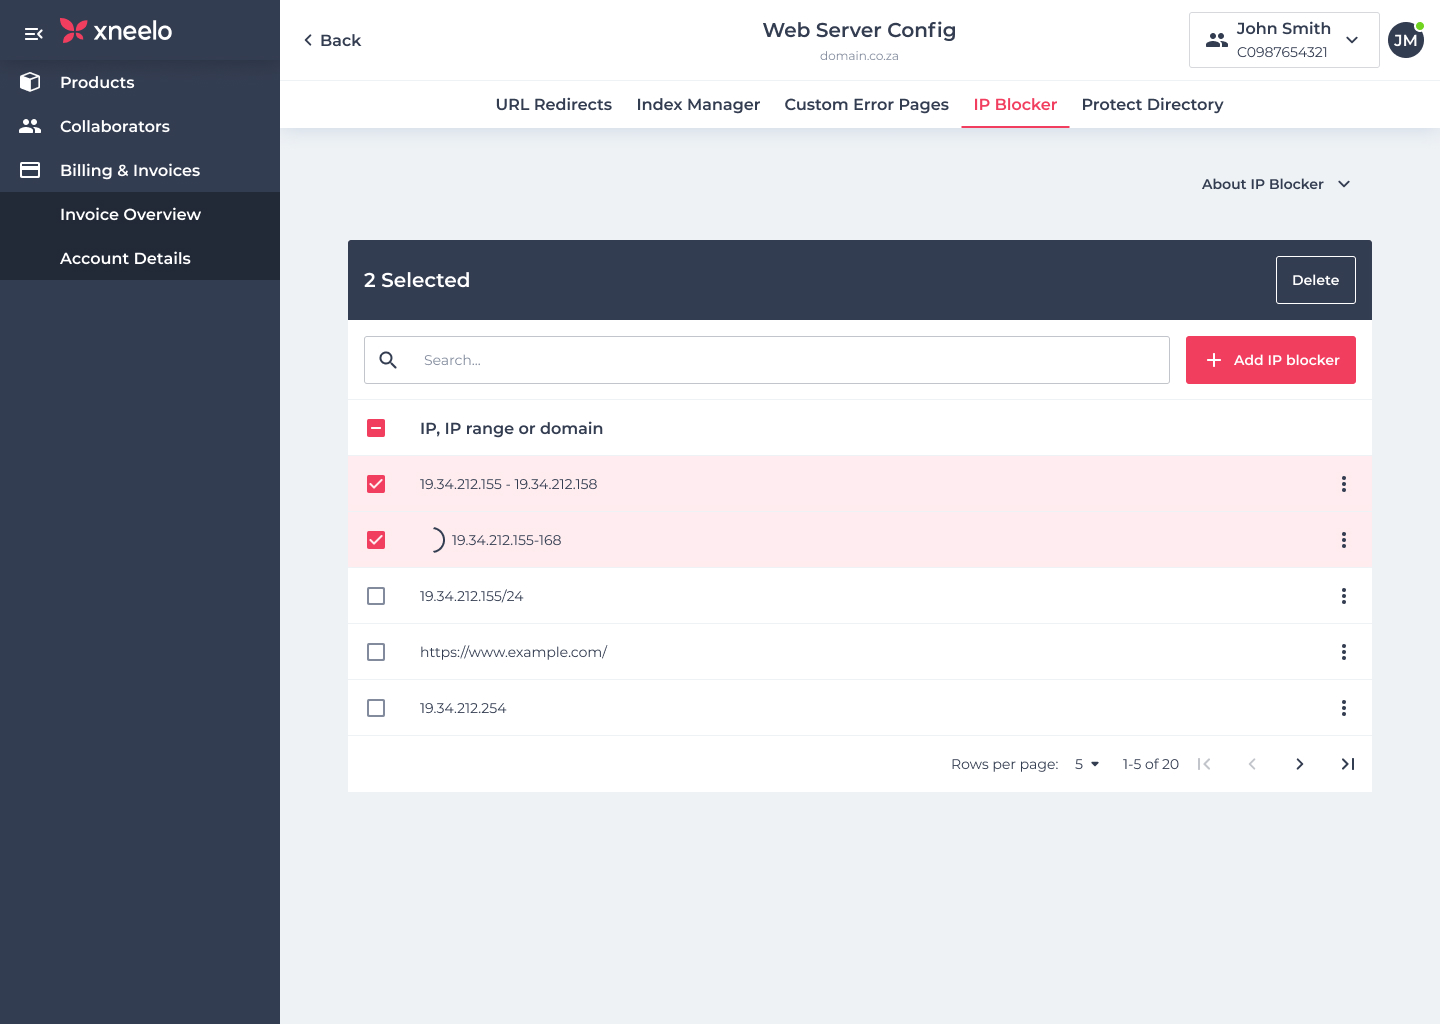
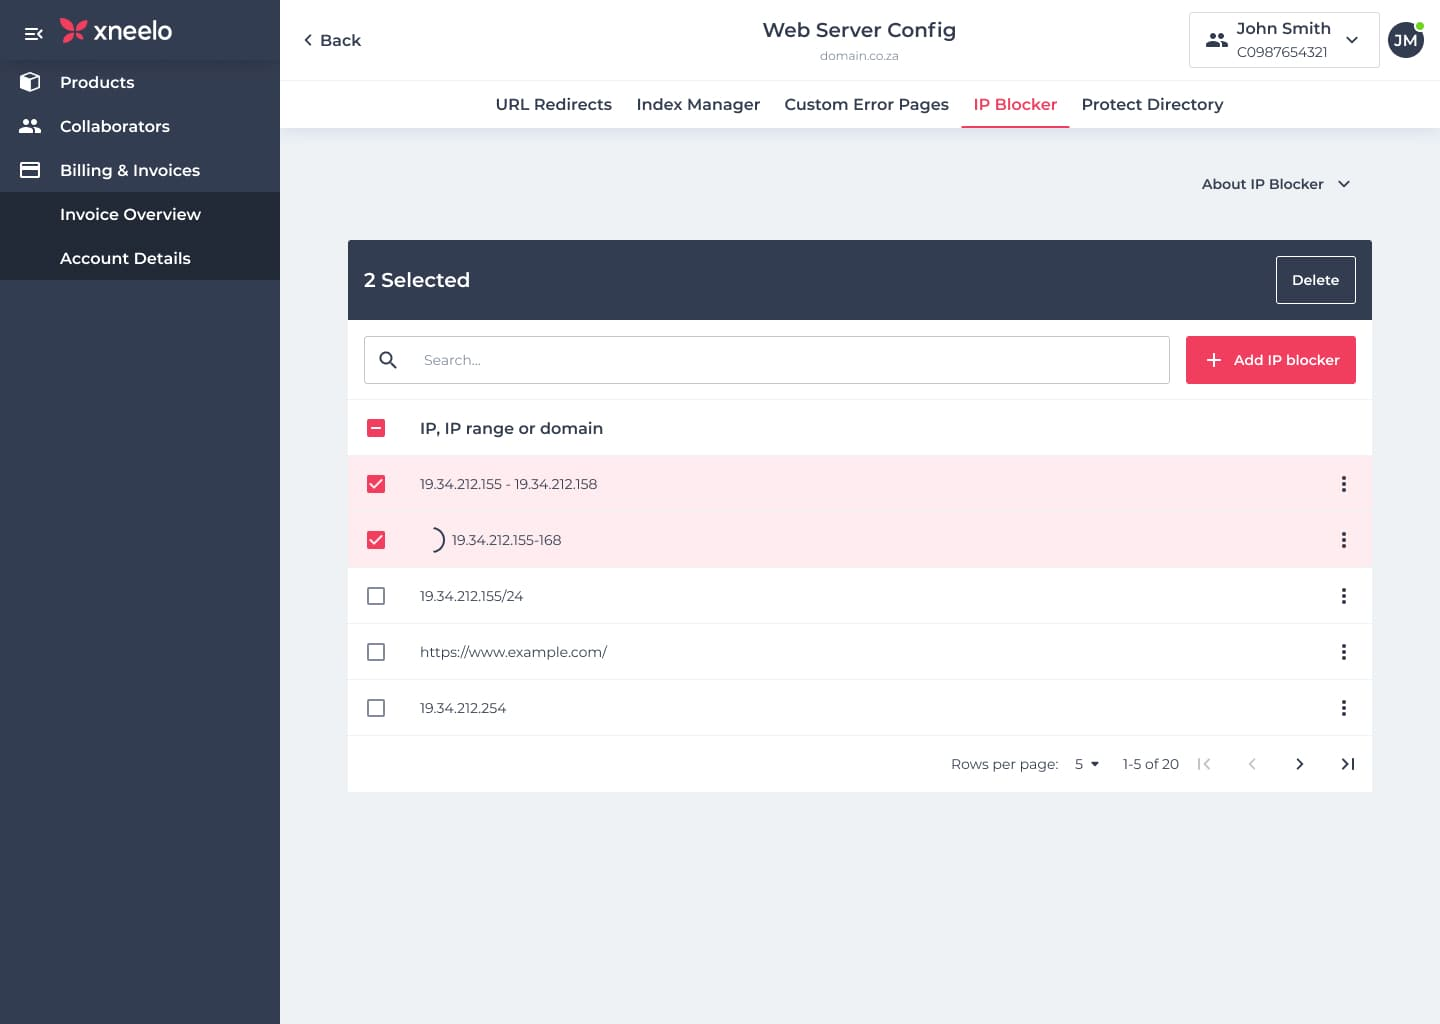
IP Blocker Imgs Optimised

Changed region(s): [[0.8438, 0.3438, 0.9375, 0.375], [0.6562, 0.0938, 0.75, 0.125], [0.0312, 0.0, 0.0625, 0.0312]]

diff --git a/webserver_config.html b/webserver_config.html
@@ -701,8 +701,8 @@
 
                 <!-- Image -->
                 <div class="bgfill">
-                    <a href="/images/webserverconfig/ip-blocker/kh.png" target="_blank" class="zoom">
-                        <img src="/images/webserverconfig/ip-blocker/kh.png" class="img" alt="IP Blocker KonsoleH">
+                    <a href="/images/webserverconfig/ip-blocker/kh.jpg" target="_blank" class="zoom">
+                        <img src="/images/webserverconfig/ip-blocker/kh.jpg" class="img" alt="IP Blocker KonsoleH">
                     </a>
                 </div>
 
@@ -712,13 +712,6 @@
 
                 <!-- Design -->
                 <h3>The Redesign for xCP</h3>
-
-                <!-- Image -->
-                <div class="bgfill">
-                    <a href="/images/webserverconfig/ip-blocker/user-flows.jpg" target="_blank" class="zoom">
-                        <img src="/images/webserverconfig/ip-blocker/user-flows.jpg" class="img" alt="IP Blocker user flows">
-                    </a>
-                </div>
 
                 <!-- Image -->
                 <div class="bgfill">
